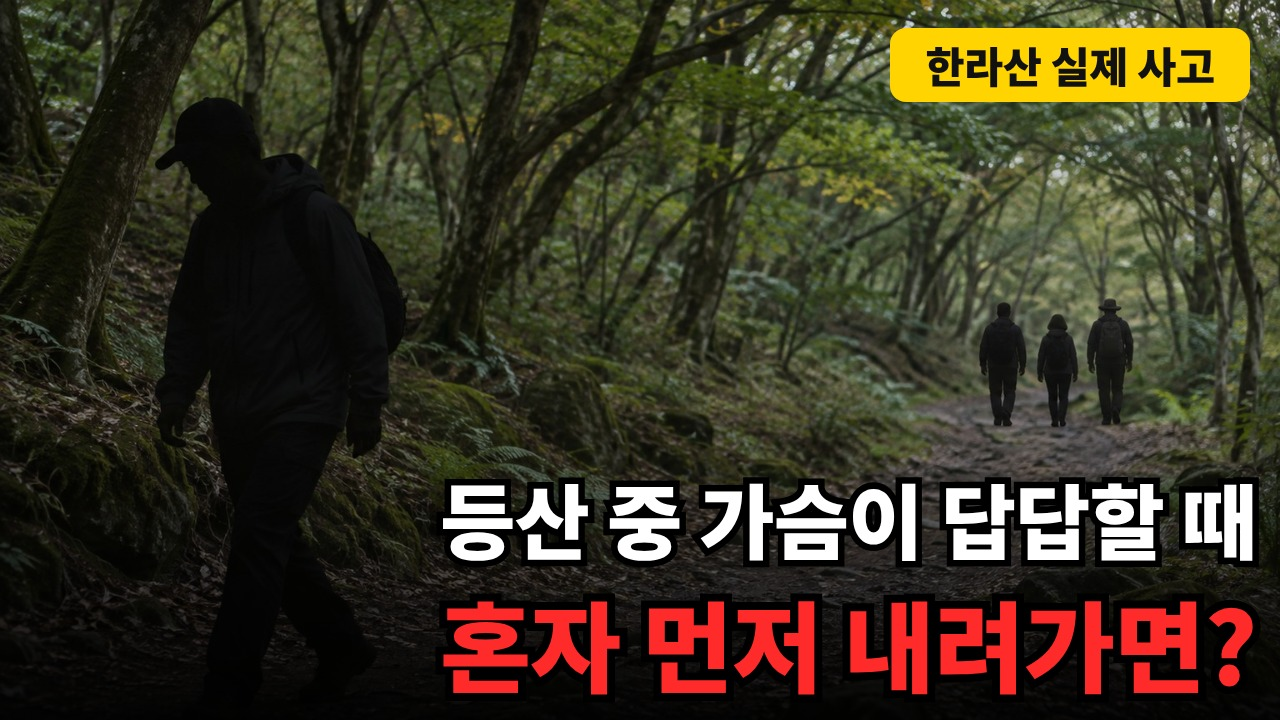
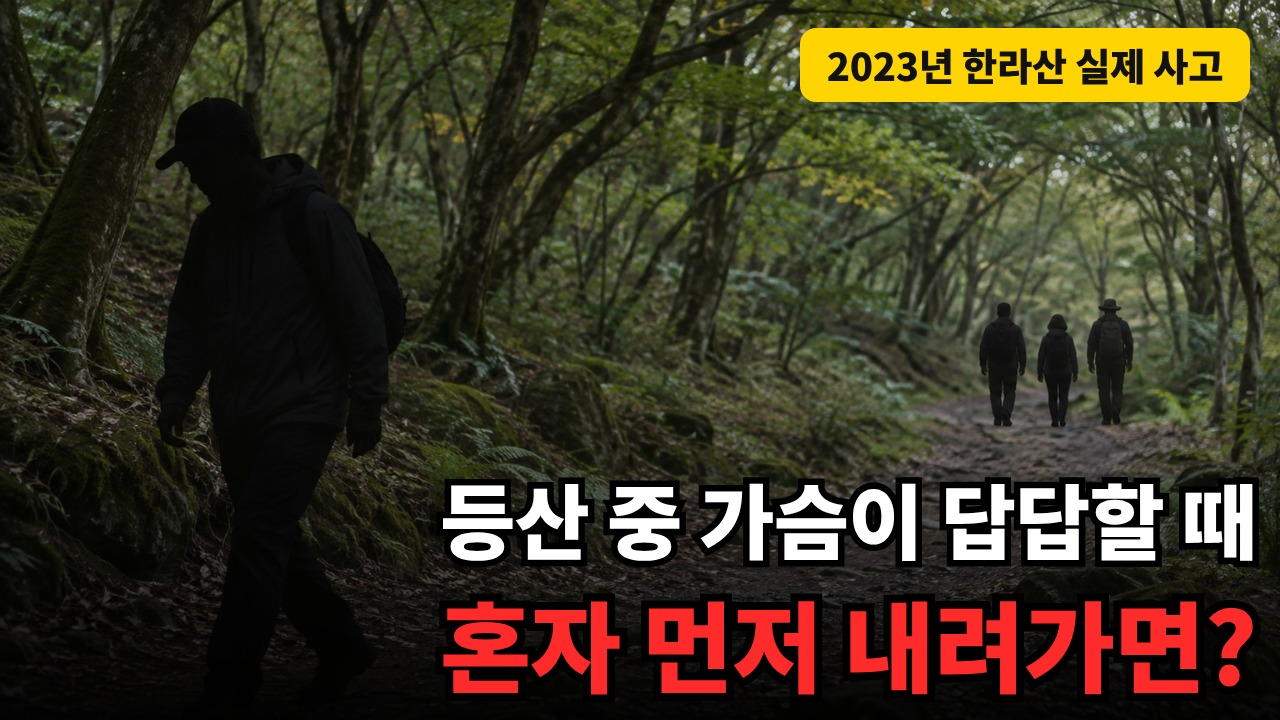
crisis 한라산 편: 페르소나 title 6회차 기록 · 꼬리표 '2023년 한라산 실제 사고' · 업로드 시트 v1.1 새 제목 · 7회차 진행 중
Claude-Session: https://claude.ai/code/session_01PYG2MrtkzTLLkg9HhkG35k

Changed region(s): [[0.625, 0.0306, 0.9688, 0.1528]]

diff --git a/crisis/source/hallasan-simjeongji-2026-11/upload.md b/crisis/source/hallasan-simjeongji-2026-11/upload.md
@@ -1,6 +1,7 @@
 # hallasan-simjeongji-2026-11 업로드 시트 (롱폼 · 위기 상황)
 
-버전: v1.0 — 2026-11-27 — 최초 (사용자 지시 "음성 확인해서 영상 만들어서 말풍선좀 사람 움직임에 따라서 똑같이 움직이도록 수정해야돼 꼭 수정 다하면 업로드 준비해") · 위기 상황 채널 첫 업로드 시트 (꼴 = `psychology/source/jakku-juneun-2026-11-25/upload.md` · `guides/upload_guide.md` 13번).
+버전: v1.1 — 2026-11-27 — 제목·썸네일 문구를 공통 규칙에 맞춤 (사용자 지시 "아 그리고 뭐 또 제목, 썸네일 수정할거 있다며 공통 규칙에 맞게 수정해" — 제목 낱말이 사용자 도입 첫 두 문장에 · 썸네일 낱말이 첫 문장에 · `script_rules_check` ✅ ✅) · 페르소나 title 5~7회차 · 설명란 첫 줄도 제목 낱말로.
+이전 v1.0 — 2026-11-27 — 최초 (사용자 지시 "음성 확인해서 영상 만들어서 말풍선좀 사람 움직임에 따라서 똑같이 움직이도록 수정해야돼 꼭 수정 다하면 업로드 준비해") · 위기 상황 채널 첫 업로드 시트 (꼴 = `psychology/source/jakku-juneun-2026-11-25/upload.md` · `guides/upload_guide.md` 13번).
 기준 파일: 대본 `hallasan-simjeongji-2026-11.txt` v4.1 (104문장) · 오디오 `narration.mp3` (Kaggle 2026-11-27 06:08 · 436.6초 · 문장 44 첫 낱말 앞 웅얼거림 0.2초 무음 · 문장 18·52 끝 딸깍 12ms 줄임 — tts_guide 5-4) · 자막 `hallasan-simjeongji-2026-11.srt`(align-audio — 실제 오디오) · 영상 `crisis/out/hallasan-simjeongji-2026-11/final_1080p.mp4`(장면 파일 `video/episodes/hallasan-simjeongji-2026-11/` v3.1) · 썸네일 `thumbnails/thumbnail_1~3.jpg`.
 
 > 업로드 채널 = 위기 상황 채널. 연구·교육용 안전 정보 — 의학적 진단·치료가 아님.
@@ -9,10 +10,10 @@
 ## 1. 제목 (본안)
 
 ```
-"먼저 내려갈게" 신고 1시간 뒤 발견… 한라산 둘레길 심정지
+일행과 등산 중 몸 상태가 안 좋아진다면? | 한라산 심정지
 ```
-- 짝 썸네일 `thumbnail_1.jpg` (「“먼저 내려갈게” / 1시간 뒤 발견」 + 꼬리표 「2023년 실제 사건」 — 그림 `images/DOC-05-TURN.jpg`(이 편 ChatGPT 재연 사진: 혼자 내려가는 사람 · 멀리 반대로 가는 일행) + 문구 코드 `thumb.mjs`).
-- 제목·썸네일 문구는 `package.json` v1.4 그대로 — 페르소나 관문 title 4회차 ✅ (`persona_loop.json`). `title_fit`: 34자 · 모바일·PC 모든 화면 2줄 안 ✅.
+- 짝 썸네일 `thumbnail_1.jpg` (「등산 중 가슴이 답답할 때 / 혼자 먼저 내려가면?」 + 꼬리표 「2023년 한라산 실제 사고」 — 그림 `images/DOC-05-TURN.jpg`(이 편 ChatGPT 재연 사진: 혼자 내려가는 사람 · 멀리 반대로 가는 일행) + 문구 코드 `thumb.mjs`).
+- 제목·썸네일 문구 = `package.json` v1.5 — 제목 낱말(일행·등산·몸 상태·안 좋아진)이 사용자 도입 첫 두 문장에, 썸네일 낱말('등산')이 첫 문장에 (공통 규칙 `script_rules.md` 1-① · `production_rules.md` 5-2 — `script_rules_check` ✅). 옛 제목 「"먼저 내려갈게" 신고 1시간 뒤 발견… 한라산 둘레길 심정지」는 도입과 낱말이 이어지지 않아 바꿈. `title_fit`: 33자 · 모바일·PC 모든 화면 2줄 안 ✅.
 
 ## 1-1. 실험안 — 스튜디오 '테스트 및 비교'용 (API 로 올리지 않음 · 공개 뒤 사용자가 넣음)
 
@@ -20,13 +21,14 @@
 |---|---|---|
 | 실험 1 | (본안과 같음) | `thumbnail_2.jpg` — 같은 그림 · 꼬리표 없음 · 강조 색 바꿈(윗줄 노랑 · 아랫줄 흰) |
 | 실험 2 | (본안과 같음) | `thumbnail_3.jpg` — 다른 그림 `images/DOC-04-STOP.jpg`(나무를 짚고 멈춘 사람 · 앞서 가는 일행) · 같은 낱말 |
-- 글이 다른 실험 제목은 만들지 않음 (새 문구는 persona_loop title 단계부터). 실험 제목 후보(package.json title_alt)는 쓰지 않음 — 본안 하나로 썸네일만 비교.
+- 글이 다른 실험 제목은 만들지 않음 (새 문구는 persona_loop title 단계부터). 본안 하나로 썸네일만 비교.
 
 ## 2. 설명란 (그대로 복사)
 
 ```
-한라산 둘레길에서 "몸이 좋지 않아 먼저 내려가겠다"며 혼자 내려간 50대 등산객이 신고 1시간 뒤 심정지로 발견된 2023년 실제 사건입니다.
-등산 중 심정지가 왜 일어나는지, 심정지 전 몸이 보내는 신호, 혼자 먼저 내려가면 위험한 이유, 산에 가기 전 점검 네 가지와 혼자 산에 가야 할 때 할 일을 정리했습니다.
+일행과 등산 중 몸 상태가 안 좋아졌을 때 혼자 먼저 내려가면 왜 위험한지, 2023년 한라산 둘레길 심정지 사고로 알아봤습니다.
+"몸이 좋지 않아 먼저 내려가겠다"며 혼자 내려간 50대 등산객은 신고 1시간 뒤 심정지로 발견됐습니다.
+등산 중 심정지가 왜 일어나는지, 심정지 전 몸이 보내는 신호, 산에 가기 전 점검 네 가지와 혼자 산에 가야 할 때 할 일을 정리했습니다.
 
 ■ 챕터
 0:00 등산 중 몸이 안 좋을 때
@@ -93,8 +95,8 @@ python tools/srt_tool.py upload crisis/source/hallasan-simjeongji-2026-11/hallas
 
 ## 8. 점검 (설명란에 넣지 않음)
 
-- 페르소나 관문 (`persona_loop.json`): title ✅ 4회차 · script_exit ✅ 14회차 · script_rebuttal ✅ 14회차 (상 0·중 0) — 대본 v4.1.
-- 규칙 점검 ⚠ 2 (사용자가 준 도입 그대로 — 고치지 않음): 썸네일 문구가 첫 문장에 없음 · 제목 낱말이 도입 첫 두 문장에 없음.
+- 페르소나 관문 (`persona_loop.json`): title 7회차 (새 제목·썸네일 문구 5~7회차) · script_exit ✅ 14회차 · script_rebuttal ✅ 14회차 (상 0·중 0) — 대본 v4.1.
+- 규칙 점검 (`script_rules_check.py` v1.5): 썸네일 연결 ✅ · 제목 낱말 → 도입 첫 두 문장 ✅ (사용자 도입은 그대로 — 제목·썸네일을 도입에 맞춤).
 - 숫자는 `calc_numbers.py` v1.1 · `근거.md` 표에 있는 것만. 화면에는 출처 줄 없음 (출처는 위 설명란에만).
 - 잡음 검사 `audio_check.md`: ONSET·CLICK 0 (손질 뒤) · 남은 6 = RATE 1(문장 2 '그럴 때 당신은 어떻게 하시나요?' 짧은 문장이라 빠름 — 귀로 확인 권함) · REPORT 5(목소리 높이·문장 중간 바뀜 — 보고 수준).
 - 영상: render check 0 · layout-check 0 (0.25초마다) · 말풍선·땀·이름표가 사람을 따라 움직임(장면 파일 v3.1) · 완성 mp4 장면을 Claude 가 봄 · 음량 −14 LUFS 안팎 · 트루 피크 −1.5 dBTP 이하.
